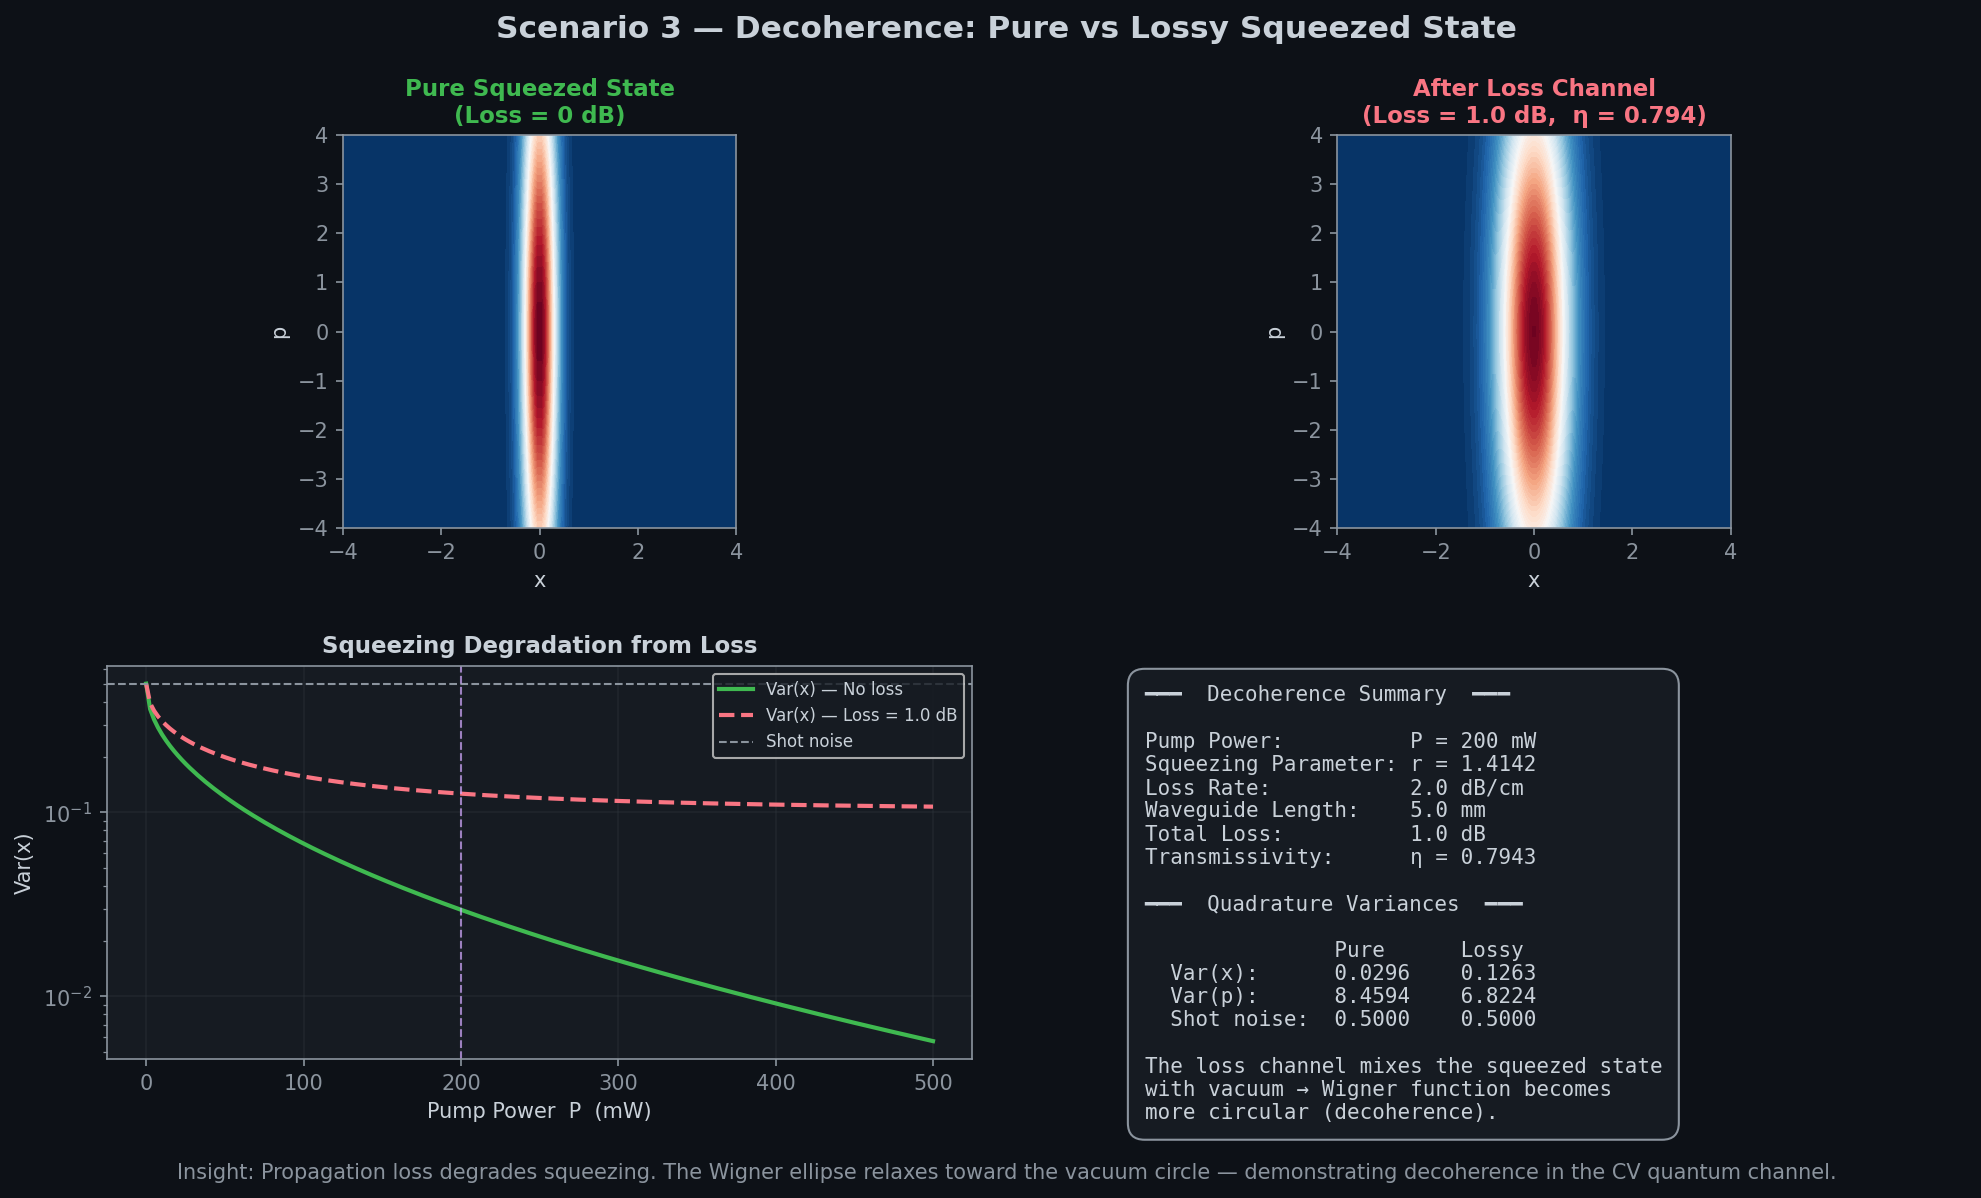
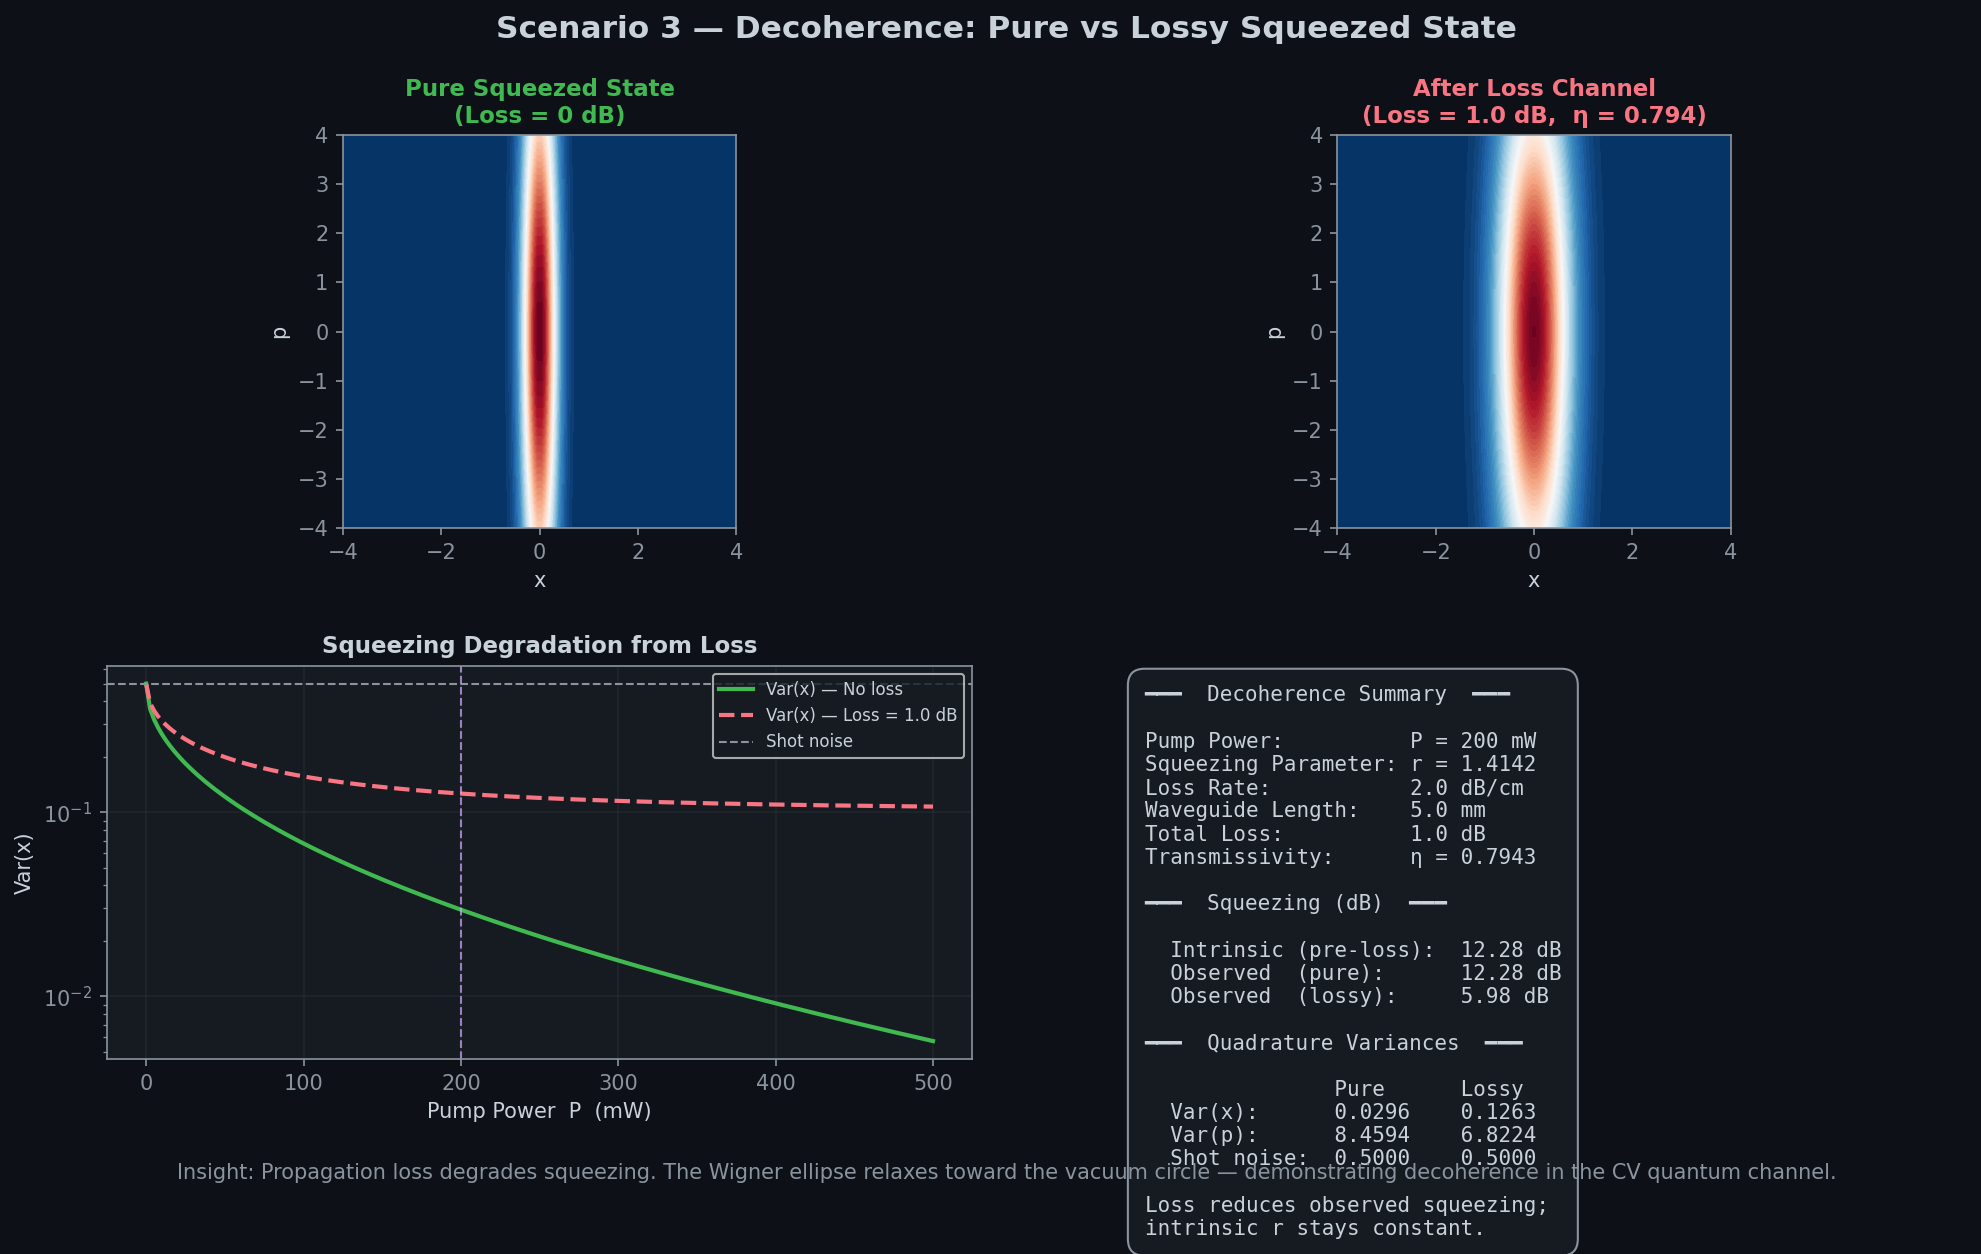
Consistency: intrinsic/observed squeezing in README, app narrative, gallery scripts + regenerate all assets

diff --git a/scripts/generate_dashboard_gallery.py b/scripts/generate_dashboard_gallery.py
@@ -68,7 +68,7 @@ def _dark_style():
 
 
 def _run_quantum(r, theta, eta_loss):
-    """Single-mode Gaussian sim → Wigner, mean_photon, var_x, var_p."""
+    """Single-mode Gaussian sim → Wigner, mean_photon, var_x, var_p, observed_sq_db."""
     prog = sf.Program(1)
     with prog.context as q:
         if r > 0:
@@ -82,7 +82,14 @@ def _run_quantum(r, theta, eta_loss):
     W = state.wigner(0, xvec, xvec)
     mean_n = state.mean_photon(0)[0]
     cov = state.cov()
-    return W, mean_n, cov[0, 0] / 2, cov[1, 1] / 2
+    var_x = cov[0, 0] / 2
+    var_p = cov[1, 1] / 2
+    # Observed squeezing from covariance eigenvalues
+    V = cov / 2.0
+    eigvals = np.linalg.eigvalsh(V)
+    Vmin = eigvals[0]
+    observed_sq_db = float(-10 * np.log10(Vmin / 0.5)) if Vmin > 0 else 0.0
+    return W, mean_n, var_x, var_p, observed_sq_db
 
 
 # ──────────────────────────────────────────────────────────────────
@@ -96,7 +103,7 @@ def scenario_vacuum():
     pump = 0.0
     r = calculate_squeezing(pump)
     sq_db = 0.0
-    W, _, var_x, var_p = _run_quantum(r, 0.0, 1.0)
+    W, _, var_x, var_p, _ = _run_quantum(r, 0.0, 1.0)
 
     # ---- Hardware mode ----
     cfg = WaveguideConfig()
@@ -117,11 +124,11 @@ def scenario_vacuum():
     ax1.axvline(pump, color=RED, ls="--", lw=1.2)
     ax1.scatter([pump], [sq_db], color=RED, zorder=5, s=70)
     ax1.set_xlabel("Pump Power  P  (mW)")
-    ax1.set_ylabel("Squeezing  (dB)")
+    ax1.set_ylabel("Intrinsic Squeezing (pre-loss)  (dB)")
     ax1.set_title("Phase 2 · Calibration Curve  —  $r = \\eta\\sqrt{P}$",
                    color=ACCENT, fontsize=12, fontweight="bold")
     ax1.grid(True)
-    ax1.text(260, 0.3, f"P = {pump:.0f} mW  →  r = {r:.3f}  →  {sq_db:.1f} dB",
+    ax1.text(260, 0.3, f"P = {pump:.0f} mW  →  r = {r:.3f}  →  Intrinsic: {sq_db:.1f} dB",
              fontsize=11, color=RED,
              bbox=dict(facecolor=PANEL_BG, edgecolor=RED, boxstyle="round,pad=0.4"))
 
@@ -169,7 +176,7 @@ def scenario_calibration():
     pump = 200.0
     r = calculate_squeezing(pump)
     sq_db = -10 * np.log10(np.exp(-2 * r))
-    W, mean_n, var_x, var_p = _run_quantum(r, 0.0, 1.0)
+    W, mean_n, var_x, var_p, _ = _run_quantum(r, 0.0, 1.0)
 
     # ---- Hardware mode ----
     cfg = WaveguideConfig()
@@ -191,13 +198,13 @@ def scenario_calibration():
     ax1.axhline(sq_db, color=RED, ls=":", lw=0.8, alpha=0.6)
     ax1.scatter([pump], [sq_db], color=RED, zorder=5, s=70)
     ax1.set_xlabel("Pump Power  P  (mW)")
-    ax1.set_ylabel("Squeezing  (dB)")
+    ax1.set_ylabel("Intrinsic Squeezing (pre-loss)  (dB)")
     ax1.set_title("Phase 2 · Calibration Curve  —  $r = \\eta\\sqrt{P}$",
                    color=ACCENT, fontsize=12, fontweight="bold")
     ax1.grid(True)
     ax1.legend(loc="lower right", fontsize=9)
     ax1.text(pump + 15, sq_db + 0.15,
-             f"P = {pump:.0f} mW\n$r$ = {r:.4f}\n{sq_db:.2f} dB",
+             f"P = {pump:.0f} mW\n$r$ = {r:.4f}\nIntrinsic: {sq_db:.2f} dB",
              fontsize=10, color=RED,
              bbox=dict(facecolor=PANEL_BG, edgecolor=RED, boxstyle="round,pad=0.4"))
 
@@ -256,9 +263,11 @@ def scenario_decoherence():
     eta_loss = 10 ** (-total_loss_db / 10.0)
 
     # Pure squeezed state (no loss)
-    W_pure, _, vx_pure, vp_pure = _run_quantum(r, 0.0, 1.0)
+    W_pure, _, vx_pure, vp_pure, obs_sq_pure = _run_quantum(r, 0.0, 1.0)
     # Lossy state
-    W_lossy, _, vx_lossy, vp_lossy = _run_quantum(r, 0.0, eta_loss)
+    W_lossy, _, vx_lossy, vp_lossy, obs_sq_lossy = _run_quantum(r, 0.0, eta_loss)
+    # Intrinsic squeezing (constant, pre-loss)
+    intrinsic_sq_db = -10 * np.log10(np.exp(-2 * r))
 
     # ---- Wigner PURE (Top-Left) ----
     ax0 = fig.add_subplot(gs[0, 0:2])
@@ -308,14 +317,17 @@ def scenario_decoherence():
         f"Waveguide Length:    {wg_length_mm:.1f} mm\n"
         f"Total Loss:          {total_loss_db:.1f} dB\n"
         f"Transmissivity:      η = {eta_loss:.4f}\n\n"
+        f"━━━  Squeezing (dB)  ━━━\n\n"
+        f"  Intrinsic (pre-loss):  {intrinsic_sq_db:.2f} dB\n"
+        f"  Observed  (pure):      {obs_sq_pure:.2f} dB\n"
+        f"  Observed  (lossy):     {obs_sq_lossy:.2f} dB\n\n"
         f"━━━  Quadrature Variances  ━━━\n\n"
         f"               Pure      Lossy\n"
         f"  Var(x):      {vx_pure:.4f}    {vx_lossy:.4f}\n"
         f"  Var(p):      {vp_pure:.4f}    {vp_lossy:.4f}\n"
         f"  Shot noise:  0.5000    0.5000\n\n"
-        f"The loss channel mixes the squeezed state\n"
-        f"with vacuum → Wigner function becomes\n"
-        f"more circular (decoherence)."
+        f"Loss reduces observed squeezing;\n"
+        f"intrinsic r stays constant."
     )
     ax3.text(0.05, 0.95, metrics_text, transform=ax3.transAxes,
              fontsize=10, color=WHITE, fontfamily="monospace", va="top",

diff --git a/src/quantum_optical_bus/calibration_app.py b/src/quantum_optical_bus/calibration_app.py
@@ -219,12 +219,10 @@ col_physics, col_formula = st.columns(2)
 with col_physics:
     st.markdown(
         r"""
-        The coupling coefficient $(\eta)$ is currently a
-        **phenomenological placeholder** ($\eta = 0.1$, so that
-        100 mW $\to$ $r \approx 1$).  In a production model it would be
-        derived from the mode overlap integral, $\chi^{(2)}$
-        non-linearity, and waveguide geometry (Meep hook — not yet
-        wired).
+        The coupling coefficient $(\eta)$ is a
+        **phenomenological placeholder** ($\eta = 0.1$, tuned so that
+        100 mW $\to$ $r \approx 1$).  It is **not** derived from
+        physical parameters in the current version.
 
         The squeezing parameter scales with the **square root
         of the pump power** — a direct consequence of the parametric
@@ -232,8 +230,10 @@ with col_physics:
 
         $$\hat{H}_{\text{int}} \;\propto\; \chi^{(2)}\,\hat{a}^2 + \text{h.c.}$$
 
-        Future work: replace $\eta$ with a value computed from the
-        FDTD mode profile and material parameters.
+        **Roadmap:** replace $\eta$ with a value computed from
+        the FDTD mode overlap integral, $\chi^{(2)}$ nonlinearity,
+        and waveguide geometry (Meep hook / overlap integral pipeline
+        — not yet wired).
         """
     )
 

diff --git a/README.md b/README.md
@@ -10,12 +10,12 @@ A hybrid quantum-classical simulation demonstrating **"One Waveguide (Hardware),
 
 ## 🎬 Live Demo
 
-The dashboard sweeps pump power from 0 → 200 mW (squeezed ellipse forms), then increases propagation loss from 0 → 2 dB (decoherence restores the circular vacuum shape):
+The dashboard sweeps pump power from 0 → 200 mW (squeezed ellipse forms), then increases propagation loss from 0 → 2 dB (decoherence restores the circular vacuum shape). **Loss does not change intrinsic *r*; it reduces observed squeezing (post-loss).**
 
 ![Demo: Calibration](assets/calibration_demo.gif)
 
 > **Figure 1: Real-time Calibration Simulation.**
-> This simulation demonstrates the mapping from classical control parameters (Pump Power) to quantum metrics (Squeezing Level). It visually verifies the $r \propto \sqrt{P}$ relationship and the decoherence effects caused by propagation loss, ensuring the simulation aligns with experimental LN waveguide characteristics.
+> The GIF shows both **intrinsic squeezing (pre-loss)** — constant for a given pump power — and **observed squeezing (post-loss)** — which decreases as propagation loss increases. This visually verifies the $r \propto \sqrt{P}$ mapping and the decoherence effect of the pure-loss channel.
 
 ---
 
@@ -29,7 +29,8 @@ A Lithium Niobate waveguide at 1550 nm simulated via Meep FDTD (falls back to an
 ### Phase 2 · The Calibration Bridge
 The core of the presentation — live LaTeX formulas showing:
 - **Squeezing parameter:** $r = \eta \sqrt{P}$
-- **Squeezing level:** $-10\log_{10}(e^{-2r})$ dB
+- **Intrinsic squeezing (pre-loss):** $-10\log_{10}(e^{-2r})$ dB — depends only on pump power
+- **Observed squeezing (post-loss):** from output covariance eigenvalues after the loss channel
 - Interactive calibration curve with current operating point
 
 ### Phase 3 · Quantum Result
